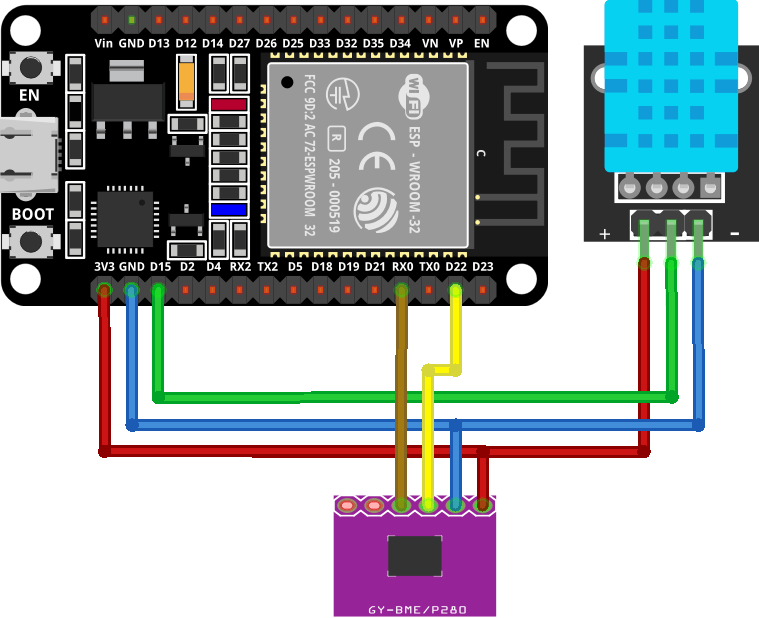
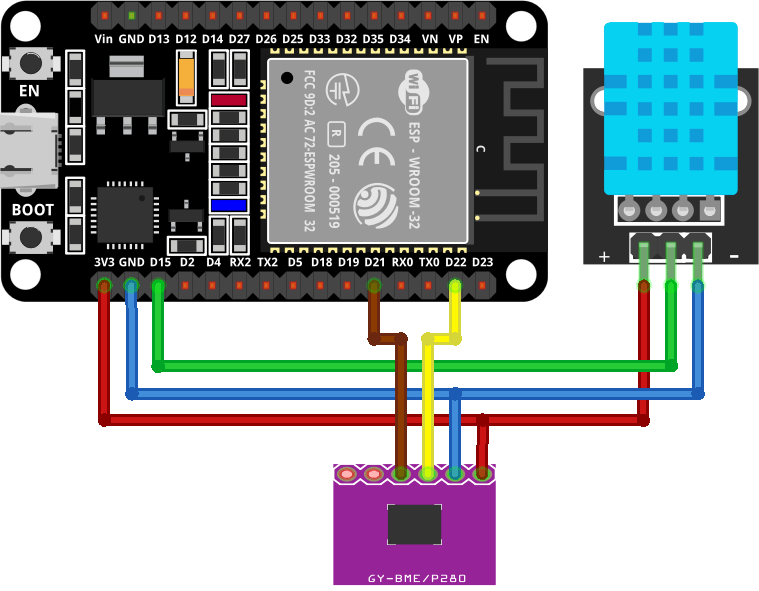
Add I2C scan and BMP280 dual-address support
Add I2C debugging and more robust BMP280 init: introduce printI2CDevices() and beginBmp280() to try both 0x76 and 0x77 and print detected device addresses for easier troubleshooting. Move BMP280 addresses to sets.h as BMP280_PRIMARY_ADDRESS and BMP280_SECONDARY_ADDRESS and update setup() to use beginBmp280(). Fix a typo in the API path macro (SENSOR_STANTION_API_PATH -> SENSOR_STATION_API_PATH) and keep the old macro as an alias for compatibility. Also include updated Fritzing files and minor cleanup (newline at EOF).

diff --git a/src/main.cpp b/src/main.cpp
@@ -25,6 +25,42 @@ static AsyncWebServer server(API_PORT);
 GTimer<millis> SensorTimer(SENSOR_READ_INTERVAL, true);
 GTimer<millis> ForecasterTimer(FORECASTER_INTERVAL_MS, true);
 
+static void printI2CDevices() {
+    Serial.println("Scanning I2C bus...");
+
+    bool found = false;
+    for (uint8_t address = 1; address < 127; address++) {
+        Wire.beginTransmission(address);
+        if (Wire.endTransmission() == 0) {
+            Serial.print("I2C device found at 0x");
+            if (address < 16) Serial.print("0");
+            Serial.println(address, HEX);
+            found = true;
+        }
+    }
+
+    if (!found) {
+        Serial.println("No I2C devices found");
+    }
+}
+
+static bool beginBmp280() {
+    if (bmp.begin(BMP280_PRIMARY_ADDRESS)) {
+        Serial.print("BMP280 sensor found at 0x");
+        Serial.println(BMP280_PRIMARY_ADDRESS, HEX);
+        return true;
+    }
+
+    if (bmp.begin(BMP280_SECONDARY_ADDRESS)) {
+        Serial.print("BMP280 sensor found at 0x");
+        Serial.println(BMP280_SECONDARY_ADDRESS, HEX);
+        return true;
+    }
+
+    printI2CDevices();
+    return false;
+}
+
 void setup() {
     Serial.begin(115200);
     Serial.println();
@@ -52,12 +88,10 @@ void setup() {
 
     dht11.begin();
 
-    if (!bmp.begin(0x76)) {
+    if (!beginBmp280()) {
         Serial.println("Could not find a valid BMP280 sensor, check wiring!");
         while (1);
     }
-    
-    Serial.println("BMP280 sensor found!");
 
     bmp.setSampling(Adafruit_BMP280::MODE_NORMAL,
                     Adafruit_BMP280::SAMPLING_X2,
@@ -79,10 +113,10 @@ void setup() {
     }
 
     server.on("/", HTTP_GET, [](AsyncWebServerRequest *request){
-        request->send(200, "text/plain", "API is online. Use " SENSOR_STANTION_API_PATH);
+        request->send(200, "text/plain", "API is online. Use " SENSOR_STATION_API_PATH);
     });
 
-    server.on(SENSOR_STANTION_API_PATH, HTTP_GET, [](AsyncWebServerRequest *request){
+    server.on(SENSOR_STATION_API_PATH, HTTP_GET, [](AsyncWebServerRequest *request){
         if (isnan(tempC) || isnan(humidity) || isnan(pressure)) {
             request->send(500, "text/plain", "Failed to read from sensor");
             return;

diff --git a/src/sets.h b/src/sets.h
@@ -10,6 +10,8 @@
 
 #define BMP280_SDA_PIN 21
 #define BMP280_SCL_PIN 22
+#define BMP280_PRIMARY_ADDRESS 0x76
+#define BMP280_SECONDARY_ADDRESS 0x77
 
 // Constants for temperature and humidity ranges
 #define MAX_TEMP_C 50
@@ -34,7 +36,8 @@ constexpr char32_t FORECASTER_INTERVAL_MS = 30UL * 60UL * 1000UL;   // 30 minute
 // Dont touch below this line
 #define MDNS_ADDRESS "weather-station" // mDNS address can broke other devices if they use data from that station
 #define API_PORT 81 // Dont set to 80, it is used by settings server
-#define SENSOR_STANTION_API_PATH "/weather"
+#define SENSOR_STATION_API_PATH "/weather"
+#define SENSOR_STANTION_API_PATH SENSOR_STATION_API_PATH
 
 extern float tempC;
 extern float humidity;
